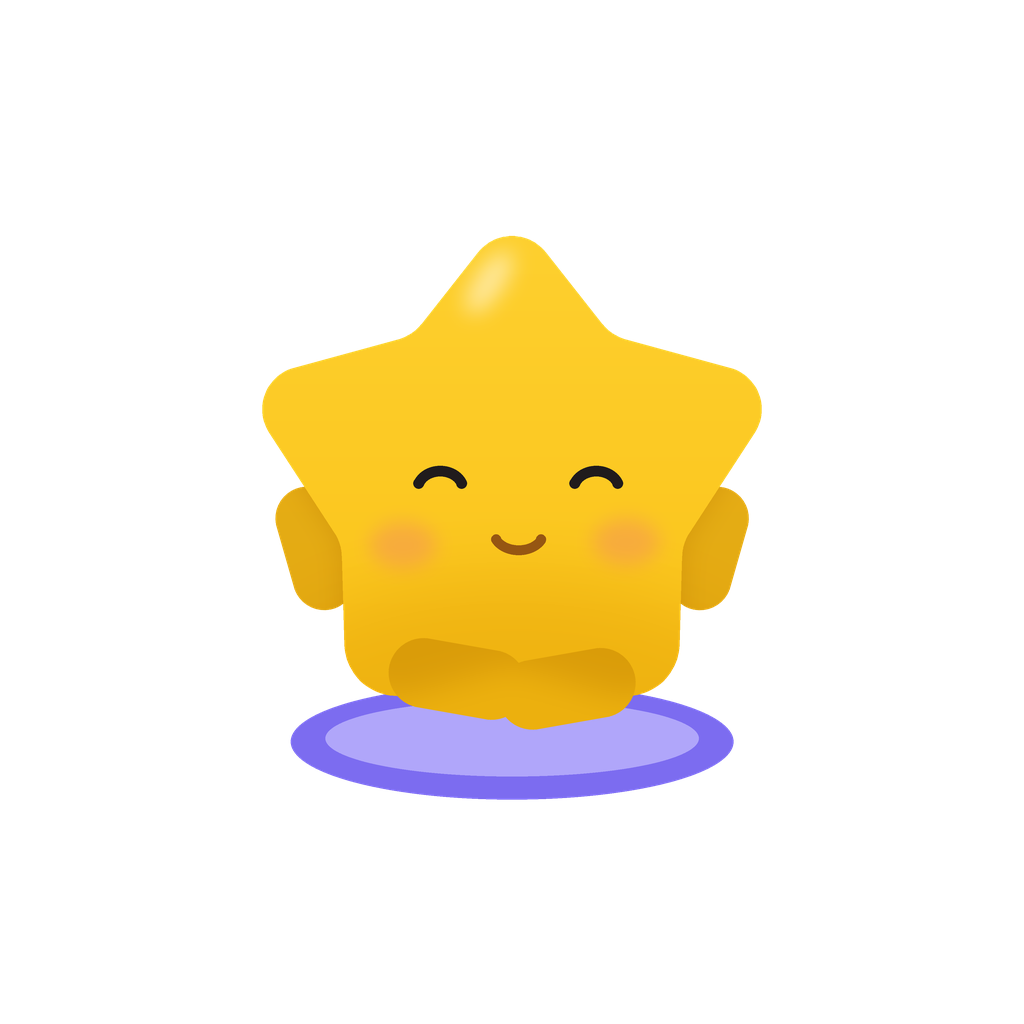
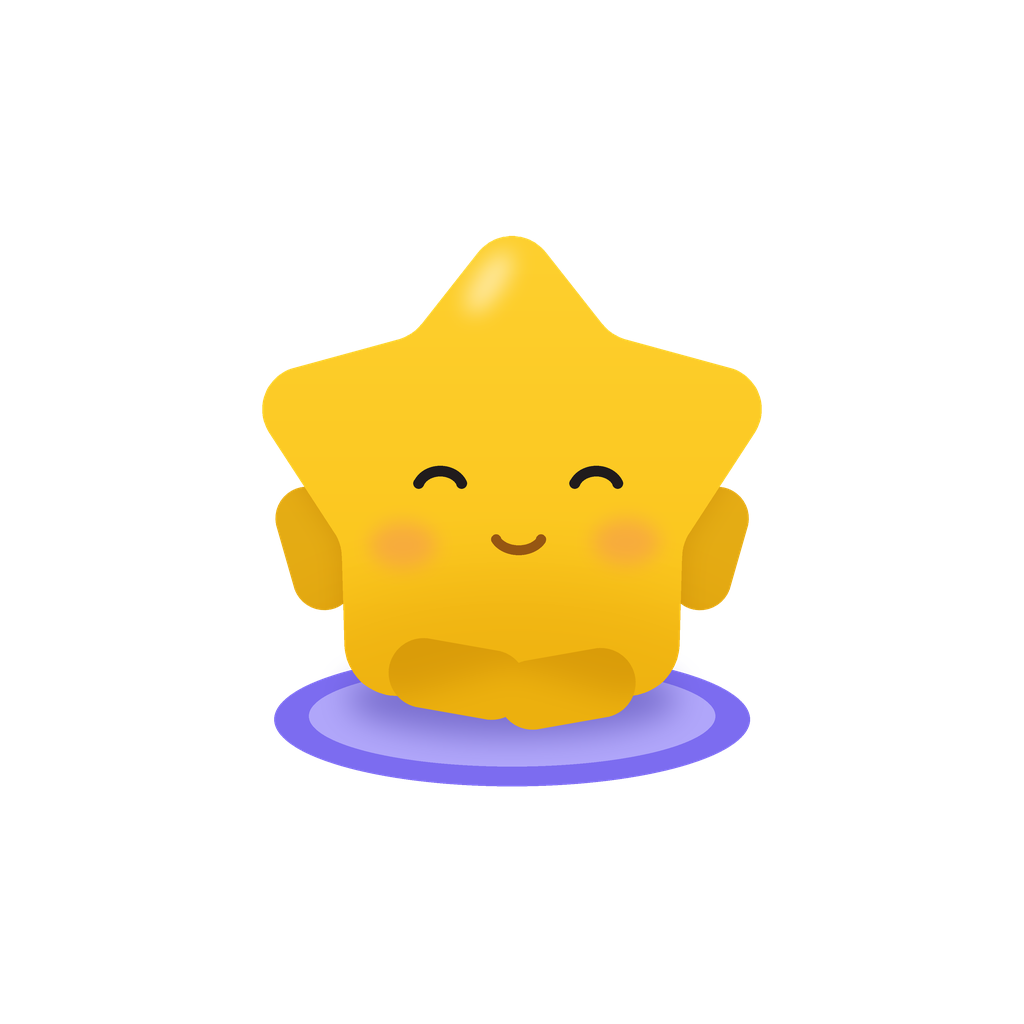
Seat the character on the meditation cushion
The mat sat entirely below the crossed legs, so the figure hovered over
it. The cushion now reaches up under the legs and a soft shadow from the
body falls across it, so the contact reads.

Claude-Session: https://claude.ai/code/session_015M4W5mwAC7ThVprora4HqH

Changed region(s): [[0.25, 0.6562, 0.75, 0.7812]]

diff --git a/scenes.py b/scenes.py
@@ -179,10 +179,36 @@ LEG = (236, 176, 14)          # ноги светлее корпуса — не 
 
 
 def mat(img):
-    """Коврик под сидящим."""
+    """Подушка, на которой персонаж сидит: верх подушки заходит под ноги,
+    сверху ложится тень от фигуры — иначе он «висит» над ней."""
     lay, d = layer(img)
-    d.ellipse(sbox([352, 828, 888, 968]), fill=ACCENT + (255,))
-    d.ellipse(sbox([394, 848, 846, 940]), fill=RING + (255,))
+    d.ellipse(sbox([332, 790, 908, 952]), fill=ACCENT + (255,))
+    d.ellipse(sbox([374, 806, 866, 928]), fill=RING + (255,))
+    img.alpha_composite(lay)
+
+    soft(img, (86, 74, 178), 150,
+         lambda dd: dd.ellipse(sbox([420, 800, 820, 892]), fill=255), blur=s(18))
+
+
+def bed(img):
+    """Изголовье кровати и подушка за спиной."""
+    lay, d = layer(img)
+    d.rounded_rectangle(sbox([168, 372, 1072, 1064]), radius=s(76),
+                        fill=ACCENT + (255,))
+    d.rounded_rectangle(sbox([214, 432, 1026, 1012]), radius=s(56),
+                        fill=RING + (255,))
+    d.rounded_rectangle(sbox([286, 520, 954, 812]), radius=s(112),
+                        fill=CLOUD + (255,))
+    img.alpha_composite(lay)
+
+
+def blanket(img):
+    """Одеяло поверх нижней части тела."""
+    lay, d = layer(img)
+    d.rounded_rectangle(sbox([168, 848, 1072, 1110]), radius=s(64),
+                        fill=(150, 136, 244, 255))
+    d.rounded_rectangle(sbox([168, 848, 1072, 928]), radius=s(44),
+                        fill=CLOUD + (255,))
     img.alpha_composite(lay)
 
 
@@ -470,6 +496,11 @@ SCENES: dict[str, dict] = {
                                                     mouth="smile"),
                                title="Медитация завершена",
                                back=[mat], front=[lotus_legs]),
+
+    "sleeping": dict(pose="sit", face=F(eyes="sleepy", brows="normal",
+                                        mouth="small"),
+                     title="Дремлет в кровати", props=("zzz",),
+                     back=[bed], front=[blanket, nightcap]),
 
     # вспомогательные
     "home-wardrobe": dict(pose="idle", face=F(eyes="wink", mouth="wide"),

diff --git a/cute_star.py b/cute_star.py
@@ -223,7 +223,7 @@ ARMS = {
     "point": (270, 646, 74, 176, -78),   # вбок, почти горизонтально
     "clap": (152, 730, 74, 152, 68),     # ладони перед собой, с просветом
     "hug": (186, 700, 74, 150, 54),      # обнимает — чуть ниже, чем hold
-    "float": (238, 664, 76, 152, -16),   # чуть разведены и приподняты
+    "float": (286, 646, 76, 152, -30),   # отведены от корпуса, с просветом
 }
 
 # Поза = (левая рука, правая рука, ноги). Ноги: stand — как обычно,
